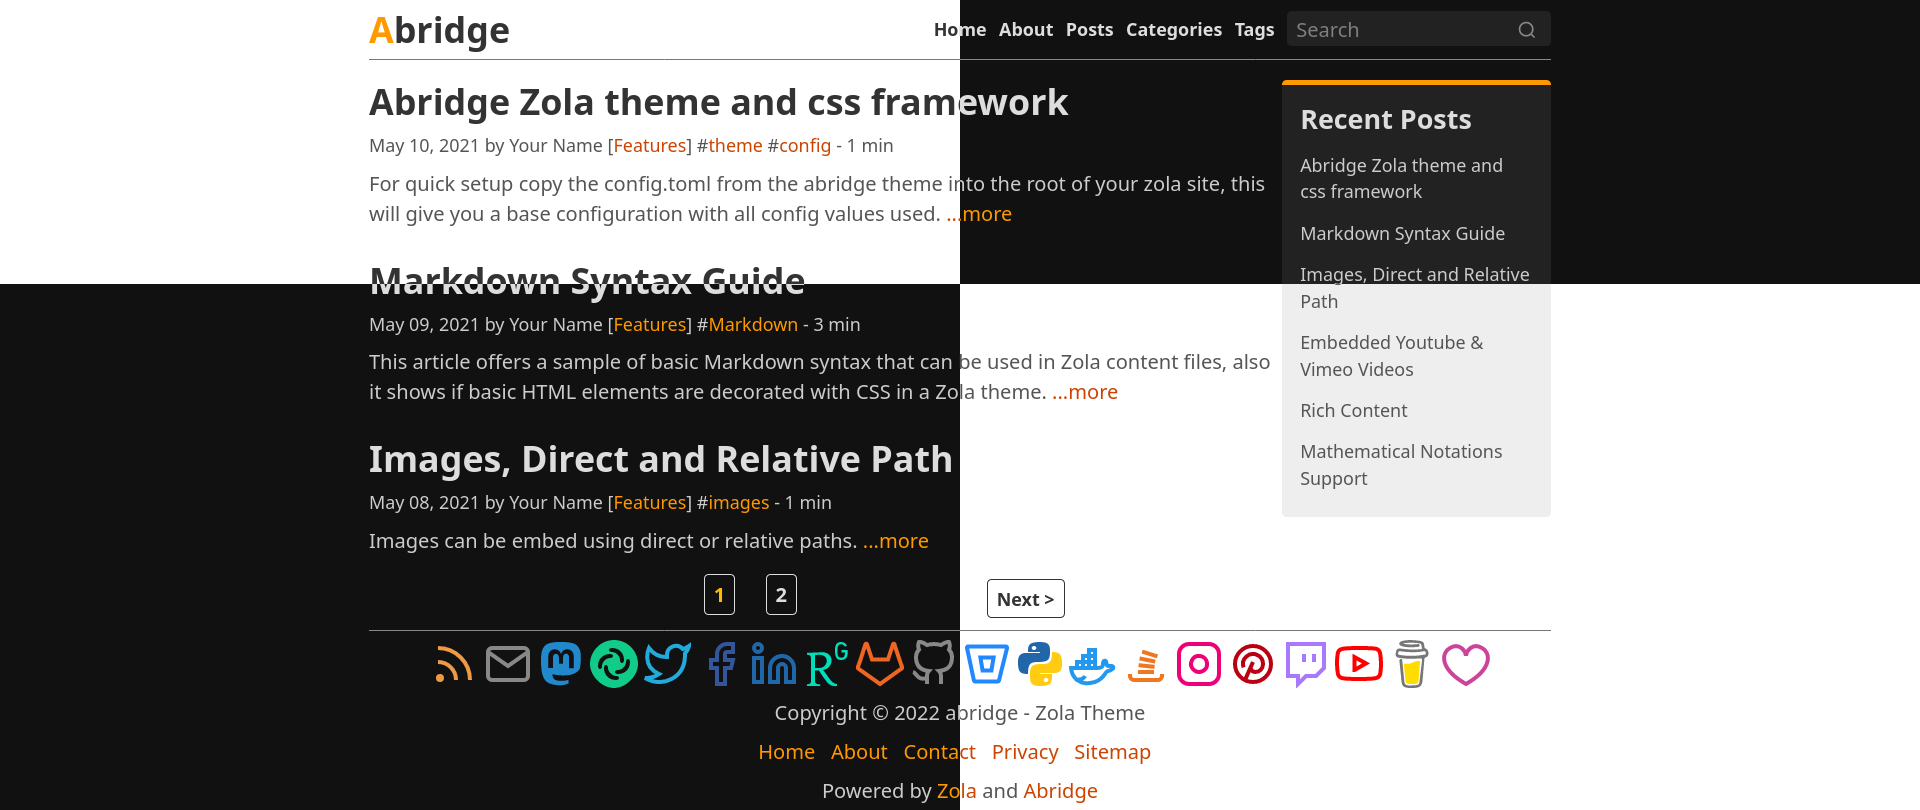
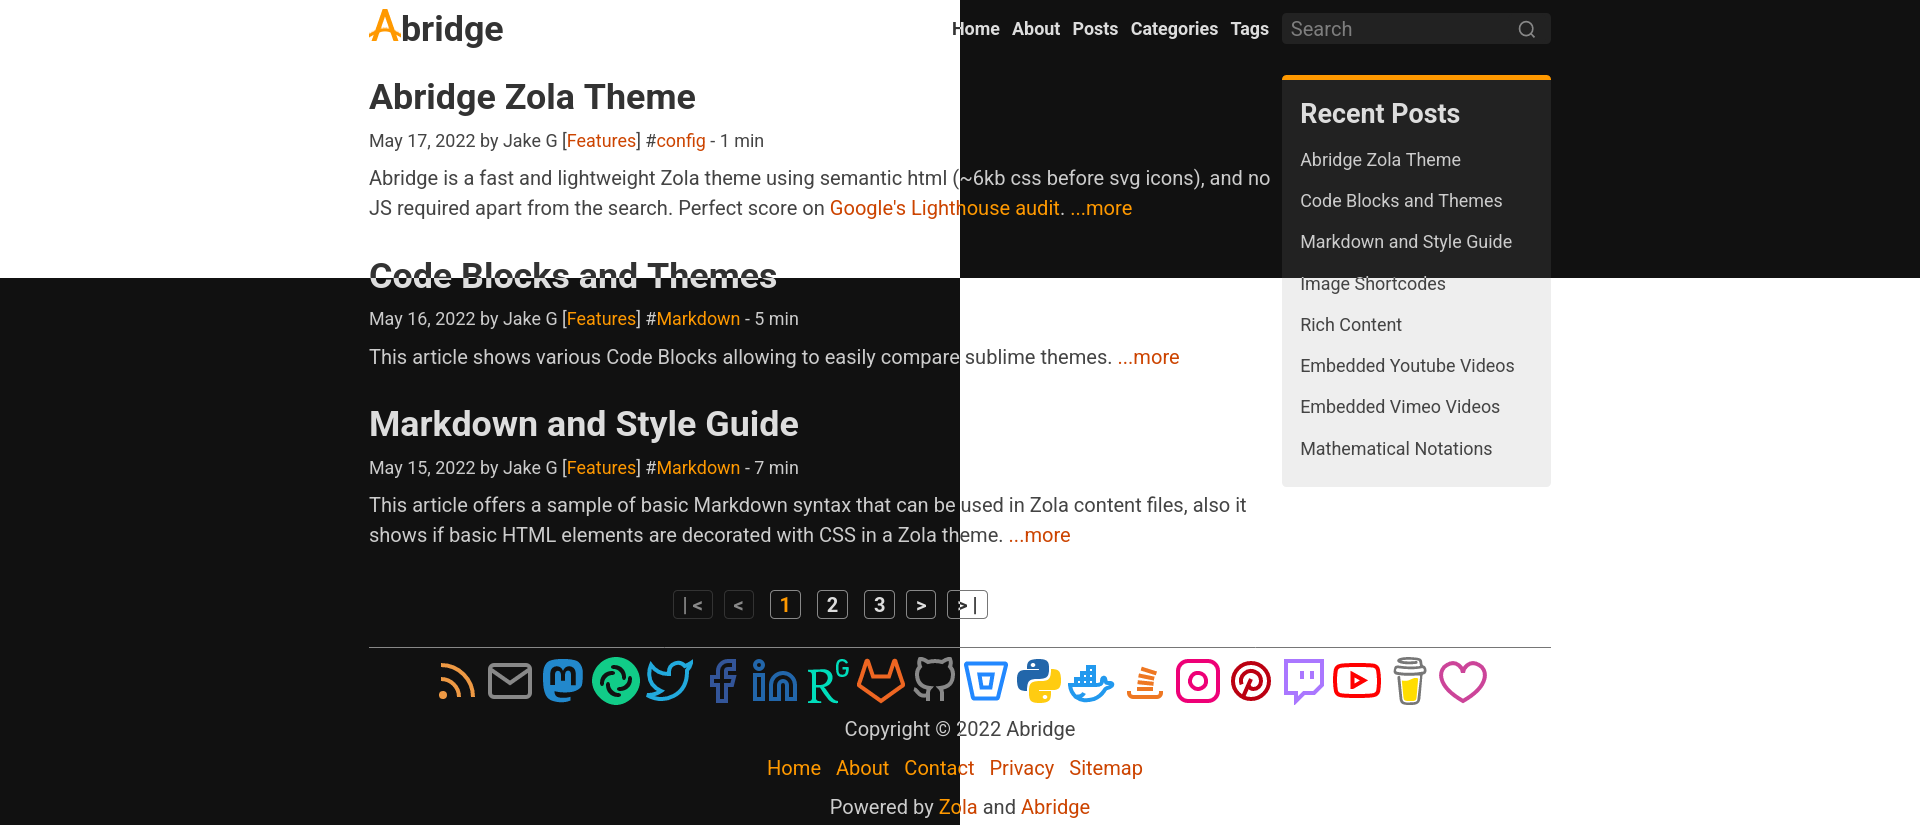
Update Example Content

diff --git a/templates/shortcodes/imghover.html b/templates/shortcodes/imghover.html
@@ -34,14 +34,6 @@
 
 {%- endfor %}
 
-{%- if w and h and p %}
-  {%- set padding = h / w * p %}
-{%- elif w and h %}
-  {%- set padding = h / w * 50 %}
-{%- else %}
-  {%- set padding = 50 %}
-{%- endif %}
-
 <style>
   {%- for source in src %}
 
@@ -67,6 +59,22 @@
 
     {%- set sourcepath = source | split(pat="/") | last %}
     {%- set sourcename = pathtype ~ sourcepath | split(pat=".") | first %}
+    {%- set sourcetype = pathtype ~ sourcepath | split(pat=".") | last %}
+
+    {%- if w and h and p %}
+      {%- set padding = h / w * p %}
+    {%- elif w and h %}
+      {%- set padding = h / w * 50 %}
+    {%- elif p %}
+      {%- set metafile = page.path ~ path ~ sourcepath %}
+      {%- set meta = get_image_metadata(path=metafile) %}
+      {%- set padding = meta.height / meta.width * p %}
+      /* height={{meta.height}} width={{meta.width}} (THIS IS BACKWARDS!?) */
+    {%- else %}
+      {%- set padding = 50 %}
+    {%- endif %}
+
+
 
     {%- if not loop.first %}
       #{{ sourcename | safe }}image {
@@ -76,6 +84,7 @@
         width: {{ p | default(value=50) }}%;
         height: 0;
         padding-top: {{ padding }}%;
+
       }
       #{{ sourcename | safe }}image:hover {
         background-image: url('{{ path | safe }}{{ sourcepath | safe }}');

diff --git a/sass/_imports.scss b/sass/_imports.scss
@@ -21,5 +21,5 @@
 @import "include/form"; // input, select, textarea, label, fieldset, legend (If you import this, you should also import button)
 
 @import "include/icons"; // svg icons
-//@import "include/grid"; // section infinite grid -- test/rework this similar to hnav and milligram in that it should collapse to a single column as the page becomes narrow
+@import "include/grid"; // section infinite grid -- test/rework this similar to hnav and milligram in that it should collapse to a single column as the page becomes narrow
 //@import "include/misc"; // template, [hidden], dialog, canvas

diff --git a/content/overview-markdown-and-style.md b/content/overview-markdown-and-style.md
@@ -179,7 +179,7 @@ during Gopherfest, November 18, 2015.
 [^2]: The quote is the first sentence of Aristotle's [Metaphysics](https://en.wikipedia.org/wiki/Metaphysics_(Aristotle)).
 
 
-# Forms:
+## Forms:
 
 <form name="contact" method="POST" >
     <p><label>Name</label>
@@ -271,7 +271,7 @@ during Gopherfest, November 18, 2015.
     </label>
 </form>
 
-# Navs
+## Navs
 
 Site primary menu is created by nesting the nav under a header tag. Refer to the top of this site for an example.
 
@@ -287,9 +287,9 @@ If the nav tag is under the main tag instead of the header tag then the links wi
 </header>
 
 
-# Infinity Flex Grid
+## Infinity Flex Grid
 
-## Simple Grid
+### Simple Grid
 
 <section>
     <section> 1 </section>
@@ -310,7 +310,7 @@ If the nav tag is under the main tag instead of the header tag then the links wi
     <section> 5 </section>
 </section>
 
-## Complex grid
+### Complex grid
 
 <section>
     <section> 1 </section>

diff --git a/content/overview-abridge.md b/content/overview-abridge.md
@@ -7,8 +7,10 @@ categories = ["Features"]
 tags = ["config"]
 +++
 
-For quick setup copy the config.toml from the abridge theme into the root of your zola site, this will give you a base configuration with all config values used.
+Abridge is a fast and lightweight Zola theme using semantic html (~6kb css before svg icons), and no JS required apart from the search. Perfect score on [Google's Lighthouse audit](https://web.dev/measure/).
 <!-- more -->
+For quick setup copy the config.toml from the abridge theme into the root of your zola site, this will give you a base configuration with all config values used.
+
 You can then edit or comment out the values in this file as necessary.
 
 You should also uncomment out the line #theme = "abridge" in your root zola config.toml file. This tells your root zola site to use the abridge theme in the themes folder.

diff --git a/content/pages/about.md b/content/pages/about.md
@@ -11,7 +11,7 @@ Abridge was created by [Jake G (jieiku)](https://github.com/Jieiku) to be fast a
 Some fun facts about the theme:
 
 * Perfect score on Google's Lighthouse audit
-* Only ~4 KB of CSS before enabling the SVG CSS icons.
+* Only ~6 KB of CSS before enabling the SVG CSS icons.
 * No JavaScript (except the search which can be disabled)
 * Now with SEO!
 
